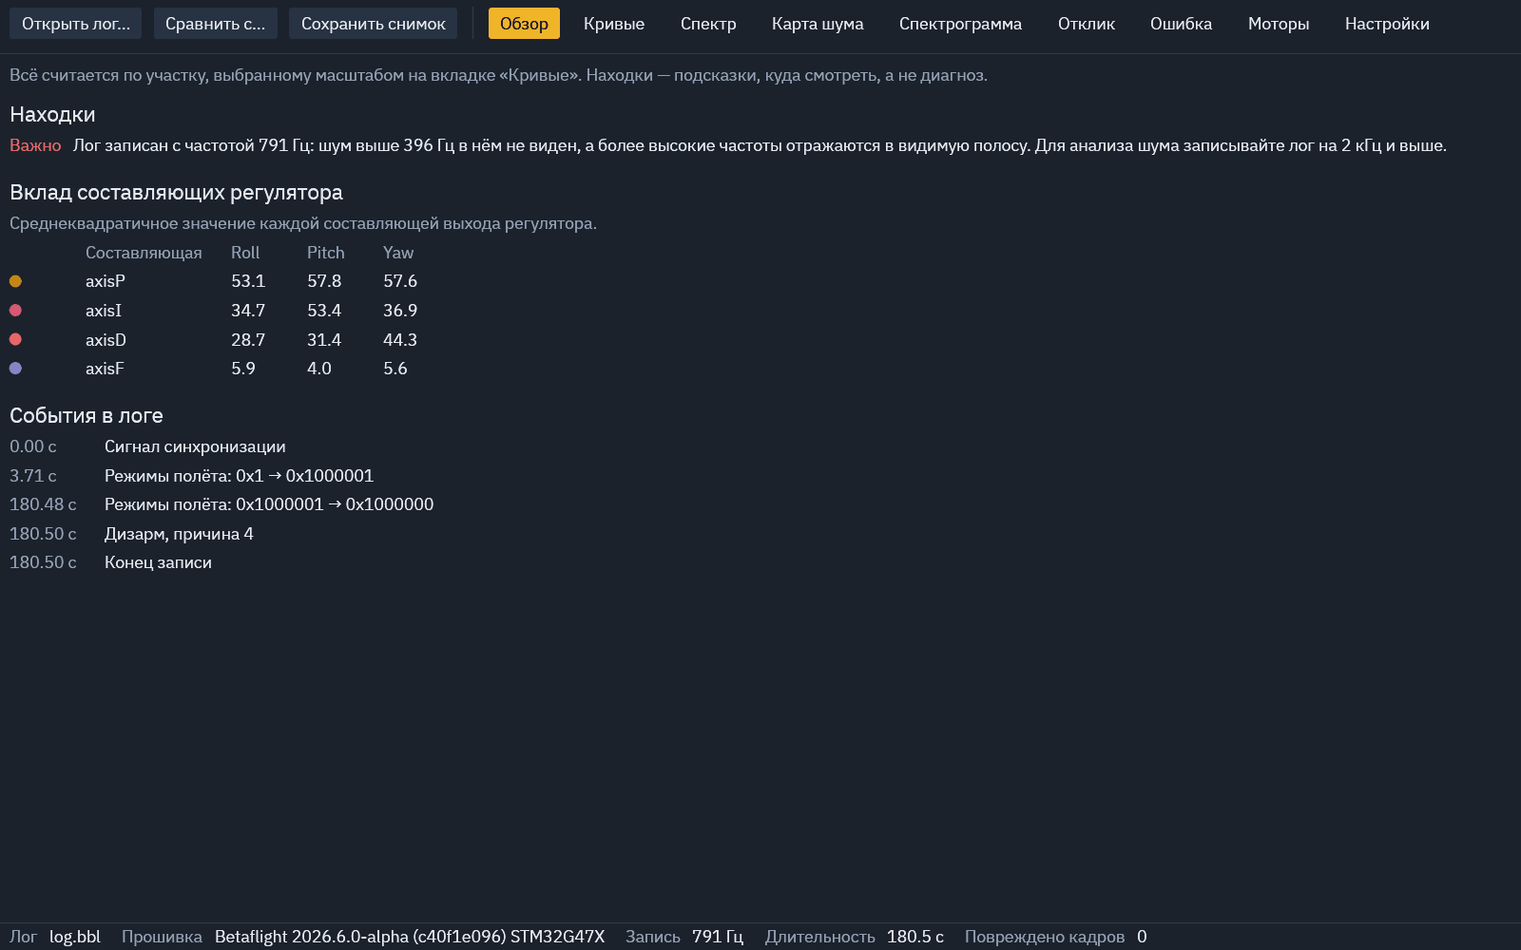
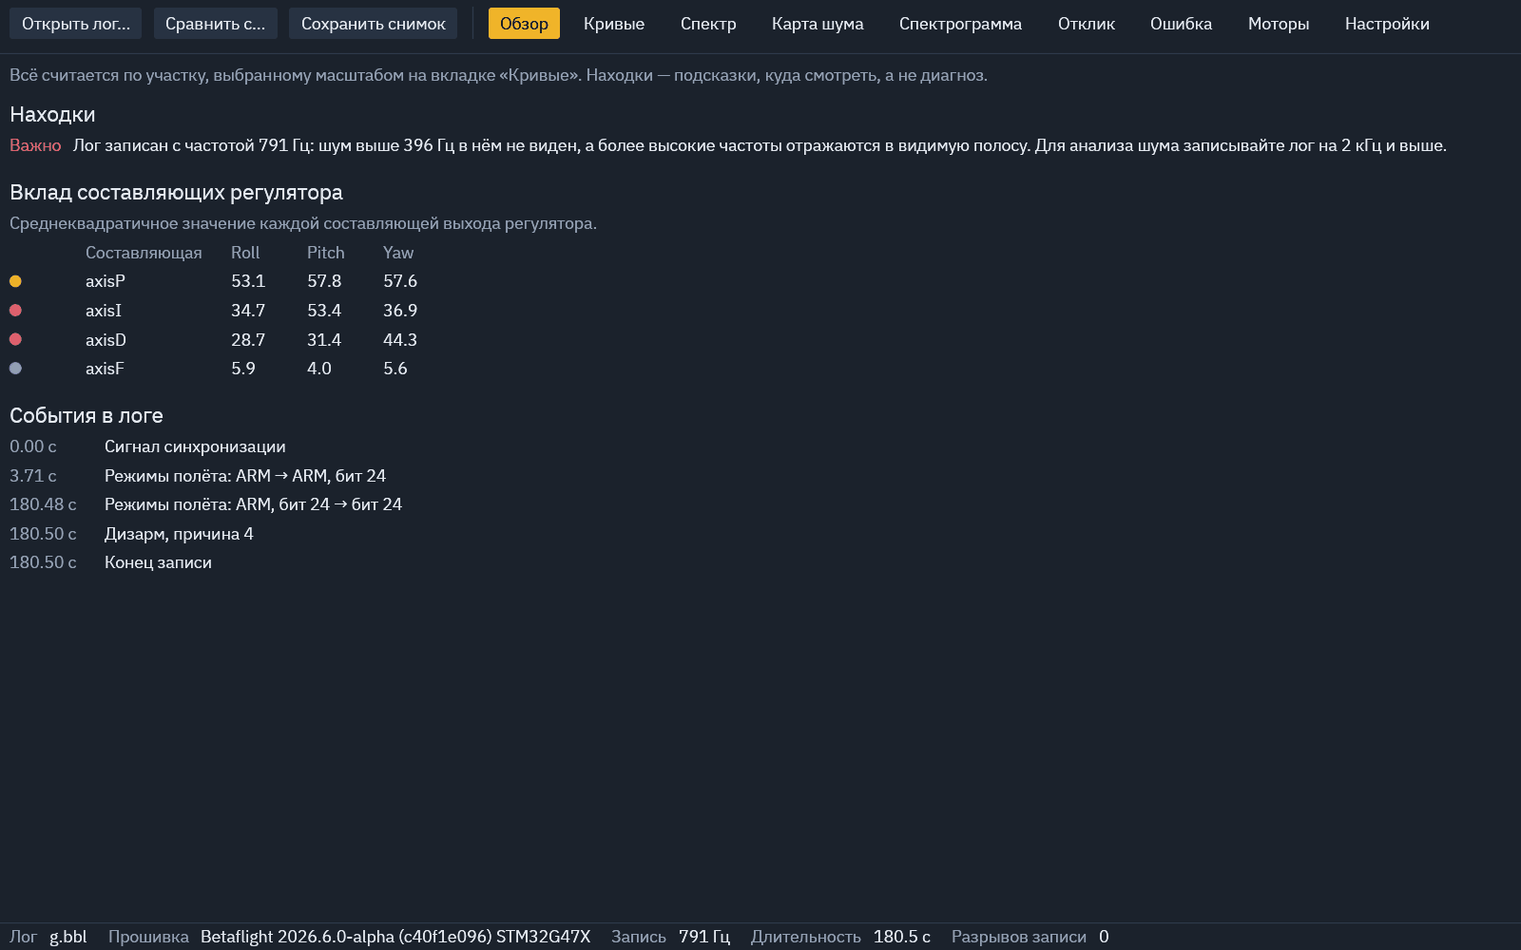
Сверка с blackbox_decode на всех прошивках, точность отклика, удобство
Разбор совпал с эталонным декодером на 31 записи (Betaflight 3.x–2025.x,
INAV, EmuFlight, Rotorflight). Исправлено занижение установившегося уровня
отклика на ступеньку; добавлен тест на колебательной системе с шумом.
Выгрузка в CSV, названия режимов полёта, участок анализа в строке состояния,
уровень под курсором на картах шума, README и скрипт сверки.

Changed region(s): [[0.0312, 0.961, 0.75, 1.0], [0.1562, 0.496, 0.2812, 0.558]]

diff --git a/src/main.rs b/src/main.rs
@@ -100,6 +100,8 @@ struct Loaded {
     other_fields: Vec<(usize, bool)>,
     /// Участок лога, видимый на кривых (номера кадров); по нему считается весь анализ, кроме карт.
     range: (usize, usize),
+    /// Просьба вернуть на кривых масштаб «весь лог».
+    reset_zoom: bool,
     spectra: ForRange<Spectra>,
     /// Задержка `gyroADC` относительно `gyroUnfilt` по осям, мс.
     delays: ForRange<[Option<f64>; 3]>,
@@ -179,6 +181,7 @@ impl Loaded {
         Self {
             sample_rate: log.sample_rate(),
             range: (0, log.time.len()),
+            reset_zoom: false,
             axis_fields,
             other_fields,
             spectra: None,
@@ -391,6 +394,9 @@ fn show_curves(ui: &mut egui::Ui, loaded: &mut Loaded) {
             plot = plot.x_axis_label("время, с");
         }
         plot.show(ui, |plot| {
+            if loaded.reset_zoom {
+                plot.set_auto_bounds([true, true]);
+            }
             if row == 0 {
                 // Пока масштаб автоматический, показываем весь лог: иначе границы
                 // подстраивались бы под уже обрезанные по ним же точки.
@@ -418,6 +424,7 @@ fn show_curves(ui: &mut egui::Ui, loaded: &mut Loaded) {
         });
     }
     loaded.range = range;
+    loaded.reset_zoom = false;
 }
 
 fn show_spectrum(ui: &mut egui::Ui, loaded: &mut Loaded, compare: Option<&mut Loaded>, view: &mut View) {
@@ -563,6 +570,20 @@ fn show_maps(ui: &mut egui::Ui, loaded: &mut Loaded, spectrogram: bool, view: &m
         if with_x_label {
             plot = plot.x_axis_label(x_label);
         }
+        // В углу — что под курсором: положение по осям и уровень в этой ячейке.
+        let grid = set.grids[a].as_ref();
+        let readout = move |point: &PlotPoint, _: &egui_plot::PlotBounds| {
+            let unit = ["%", "с", "Гц"][kind as usize];
+            let level = grid.and_then(|g| {
+                let (x, y) = (point.x / set.x_max * g.w as f64, point.y / f_max * (g.h - 1) as f64);
+                ((0.0..g.w as f64).contains(&x) && (0.0..g.h as f64).contains(&y)).then(|| g.db[x as usize * g.h + y as usize])
+            });
+            match level.filter(|db| !db.is_nan()) {
+                Some(db) => format!("{:.1} {unit}, {:.0} Гц: {db:.0} дБ", point.x, point.y),
+                None => format!("{:.1} {unit}, {:.0} Гц: нет данных", point.x, point.y),
+            }
+        };
+        plot = plot.coordinates_formatter(egui_plot::Corner::RightTop, egui_plot::CoordinatesFormatter::new(readout));
         plot.show(ui, |plot| {
             let center = PlotPoint::new(set.x_max / 2.0, f_max / 2.0);
             plot.image(PlotImage::new(AXES[a], texture.id(), center, [set.x_max as f32, f_max as f32]));
@@ -749,6 +770,7 @@ impl eframe::App for App {
             ui.add_space(4.0);
         });
 
+        let mut whole_log = false;
         egui::Panel::bottom("status").show(ui, |ui| {
             ui.horizontal(|ui| match (&self.error, self.logs.get(self.current)) {
                 (Some(e), _) => {
@@ -760,6 +782,11 @@ impl eframe::App for App {
                     fact(ui, "Запись", format!("{:.0} Гц", l.sample_rate));
                     fact(ui, "Длительность", format!("{:.1} с", l.log.time.last().unwrap_or(&0.0)));
                     fact(ui, "Разрывов записи", l.log.corrupt.to_string());
+                    if l.range != (0, l.log.time.len()) {
+                        let (lo, hi) = l.range;
+                        fact(ui, "Анализируется участок", format!("{:.2}–{:.2} с", l.log.time[lo], l.log.time[hi.max(lo + 1) - 1]));
+                        whole_log = ui.button("Весь лог").clicked();
+                    }
                     if let Some((name, _)) = &self.compare {
                         fact(ui, "Сравнение, штриховые линии", name.clone());
                     }
@@ -770,6 +797,10 @@ impl eframe::App for App {
                 (None, None) => {}
             });
         });
+
+        if let (true, Some(l)) = (whole_log, self.logs.get_mut(self.current)) {
+            (l.range, l.reset_zoom) = ((0, l.log.time.len()), true);
+        }
 
         let Some(loaded) = self.logs.get_mut(self.current) else {
             egui::CentralPanel::default().show(ui, |ui| {
@@ -816,11 +847,29 @@ impl eframe::App for App {
     }
 }
 
+/// Печатает запись в CSV: время от начала в микросекундах и все поля как в логе.
+fn write_csv(log: &bbl::Log) {
+    use std::io::Write;
+    let mut out = std::io::BufWriter::new(std::io::stdout().lock());
+    // Ошибка записи значит, что читатель закрыл поток (`| head`) — молча прекращаем.
+    let mut line = |text: String| writeln!(out, "{text}").is_ok();
+    if !line(format!("time_us,{}", log.names.join(","))) {
+        return;
+    }
+    for (row, time) in log.time.iter().enumerate() {
+        let values: Vec<String> = log.cols.iter().map(|c| c[row].to_string()).collect();
+        if !line(format!("{:.0},{}", time * 1e6, values.join(","))) {
+            return;
+        }
+    }
+}
+
 fn main() -> eframe::Result {
     let view = View { map_signal: "gyroADC", map_range_db: 50.0, by_rpm: false, harmonics: true, trial_on: false, trial_order: 1, trial_hz: 100, settings_filter: String::new(), only_different: false };
     let mut app = App { path: PathBuf::new(), logs: Vec::new(), compare: None, current: 0, error: None, notice: None, tab: Tab::Overview, view, snapshot_in: None };
     // Аргументы: лог; вкладка при запуске либо `report` (напечатать находки
-    // по каждой записи и выйти, без окна); лог для сравнения.
+    // по каждой записи и выйти, без окна) либо `csv` (выгрузить запись
+    // в CSV на стандартный вывод); лог для сравнения.
     // Вкладка с окончанием `+save` — сохранить её снимок рядом с логом и выйти.
     let mut args = std::env::args().skip(1);
     if let Some(path) = args.next() {
@@ -829,6 +878,15 @@ fn main() -> eframe::Result {
     let mut mode = args.next();
     if let Some(tab) = mode.as_deref().and_then(|m| m.strip_suffix("+save")) {
         (mode, app.snapshot_in) = (Some(tab.to_string()), Some(20));
+    }
+    if mode.as_deref() == Some("csv") {
+        // Третий аргумент — номер записи в файле, по умолчанию первая.
+        let index = args.next().and_then(|n| n.parse::<usize>().ok()).unwrap_or(1);
+        match app.logs.get(index.wrapping_sub(1)) {
+            Some(loaded) => write_csv(&loaded.log),
+            None => eprintln!("{}", app.error.unwrap_or(format!("В файле нет записи {index}"))),
+        }
+        return Ok(());
     }
     if mode.as_deref() == Some("report") {
         for (i, loaded) in app.logs.iter_mut().enumerate() {

diff --git a/tools/compare_with_blackbox_decode.py b/tools/compare_with_blackbox_decode.py
@@ -1,0 +1,70 @@
+"""Сверка разбора с blackbox_decode.
+
+Перед запуском декодировать логи эталоном: рядом с каждым логом должны лежать
+его `<имя>.NN.csv`. Запуск: `python3 tools/compare_with_blackbox_decode.py <папка с логами> [путь к fpv-log-analyzer]`.
+Сравниваются все поля с одинаковыми именами, кроме времени; строки сопоставляются по времени кадра.
+"""
+import sys, subprocess, glob, os, io, re
+import numpy as np, warnings
+warnings.simplefilter('ignore')
+B = sys.argv[2] if len(sys.argv) > 2 else 'target/release/fpv-log-analyzer'
+logs_dir = sys.argv[1]
+class T:
+    """Таблица: имена столбцов и числовой массив."""
+    def __init__(s, names, data): s.names, s.data = names, data
+    def __len__(s): return len(s.data)
+    def col(s, name): return s.data[:, s.names.index(name)]
+def table(f):
+    names = [c.strip() for c in f.readline().split(',')]
+    data = np.genfromtxt(f, delimiter=',', invalid_raise=False, usecols=range(len(names)), loose=True)
+    return T(names, np.atleast_2d(data) if data.size else np.zeros((0, len(names))))
+def mine(path, n):
+    out = subprocess.run([B, path, 'csv', str(n)], capture_output=True, text=True).stdout
+    if not out.strip(): return None
+    return table(io.StringIO(out))
+total_bad = 0
+for path in sorted(p for p in glob.glob(logs_dir + '/*') if re.search(r'\.(bbl|bfl|txt)$', p, re.I)):
+    stem = os.path.splitext(path)[0]
+    fw = ''
+    with open(path, 'rb') as f:
+        m = re.search(rb'H Firmware revision:([^\n]{0,28})', f.read(20000)); fw = m.group(1).decode(errors='replace') if m else '?'
+    refs = []
+    for c in sorted(glob.glob(glob.escape(stem) + '.[0-9][0-9].csv')):
+        try:
+            with open(c) as f: r = table(f)
+        except Exception as e: continue
+        if len(r) >= 3: refs.append((os.path.basename(c)[-6:-4], r))
+    mines = []
+    n = 1
+    while (m := mine(path, n)) is not None: mines.append(m); n += 1
+    print(f'== {os.path.basename(path)} [{fw}] эталон: {len(refs)} записей с данными, у нас: {len(mines)}')
+    used = set()
+    for tag, r in refs:
+        tcol = next(c for c in r.names if c.startswith('time'))
+        rt = r.col(tcol)
+        best = None
+        for k, m in enumerate(mines):
+            if k in used: continue
+            mt = m.col('time_us')
+            # смещение: абсолютное время эталона минус наше относительное; подбираем по первым кадрам
+            # эталон иногда пропускает начало записи (или мы) — пробуем оба варианта
+            cands = {rt[j] - mt[0]: 1 for j in range(min(600, len(rt)))}
+            cands.update({rt[0] - mt[i]: 1 for i in range(min(600, len(mt)))})
+            for off, _ in cands.items():
+                hit = np.isin(mt[:1500] + off, rt[:1500]).sum()
+                if best is None or hit > best[0]: best = (hit, k, off)
+        if best is None or best[0] < 3:
+            print(f'   запись {tag}: {len(r)} кадров — у нас пары нет'); total_bad += 1; continue
+        _, k, off = best; used.add(k); m = mines[k]
+        mt = m.col('time_us') + off
+        common, ri, mi = np.intersect1d(rt, mt, return_indices=True)
+        names = [n for n in r.names if n in m.names and n != 'time']
+        bad = {}
+        for nme in names:
+            d = int((np.abs(r.col(nme)[ri] - m.col(nme)[mi]) > 0.5).sum())
+            if d: bad[nme] = d
+        it = bad.pop('loopIteration', 0)
+        worst = ', '.join(f'{k}:{v}' for k, v in sorted(bad.items(), key=lambda kv: -kv[1])[:4])
+        if bad: total_bad += 1
+        print(f'   запись {tag}: эталон {len(r)}, у нас {len(m)}, общих {len(common)}, полей {len(names)}, расхождений в полях: {len(bad)} {worst}' + (f' | loopIteration расходится в {it}' if it else ''))
+print('ИТОГО записей с расхождениями или без пары:', total_bad)

diff --git a/src/dsp.rs b/src/dsp.rs
@@ -212,7 +212,14 @@ pub fn step_response(setpoint: &[f32], gyro: &[f32], fs: f64) -> Option<StepResp
         }
     }
     a[bins - 1].im = 0.0; // частота Найквиста у вещественного сигнала вещественна
-    a[0].im = 0.0;
+    // Нулевая частота задаёт установившийся уровень отклика, а по окну в 2 с она
+    // оценивается хуже всего и стягивалась бы к нулю, занижая этот уровень.
+    // Берётся усиление соседних частот (0.5–1.5 Гц): там оно то же, а оценка надёжна.
+    let low = &weighted[1..4.min(bins)];
+    let low_weight: f32 = low.iter().map(|w| w.1).sum();
+    if low_weight > 0.0 {
+        a[0] = realfft::num_complex::Complex::new((low.iter().map(|w| w.0).sum::<realfft::num_complex::Complex<f32>>() / low_weight).norm(), 0.0);
+    }
     ifft.process(&mut a, &mut buf).unwrap();
     let mut acc = 0.0;
     let points = buf[..len]
@@ -349,6 +356,39 @@ mod tests {
         let near = r.bode.iter().min_by(|a, b| (a[0] - 8.0).abs().total_cmp(&(b[0] - 8.0).abs())).unwrap();
         assert!((near[1] + 3.0).abs() < 1.0 && (near[2] + 45.0).abs() < 8.0, "на {} Гц: {} дБ, {}°", near[0], near[1], near[2]);
         assert!((r.bandwidth_hz().unwrap() - 8.0).abs() < 1.5);
+    }
+
+    /// Колебательная система (ζ = 0.3, 20 Гц) с шумом гироскопа и «пилотным» заданием:
+    /// перерегулирование известно заранее — 37 %, пик на 26 мс.
+    #[test]
+    fn step_response_of_underdamped_system() {
+        let (zeta, wn, dt) = (0.3f64, std::f64::consts::TAU * 20.0, 1.0 / FS);
+        let (mut seed, mut target, mut stick) = (11u32, 0f64, 0f64);
+        let mut random = move || {
+            seed = seed.wrapping_mul(1664525).wrapping_add(1013904223);
+            (seed >> 8) as f64 / 8_388_608.0 - 1.0
+        };
+        let (mut y, mut v) = (0f64, 0f64);
+        let (mut setpoint, mut gyro) = (Vec::new(), Vec::new());
+        for i in 0..120_000 {
+            if i % 400 == 0 {
+                target = random() * 300.0;
+            }
+            stick += (target - stick) * 0.08; // стик двигается плавно, не мгновенной ступенькой
+            for _ in 0..10 {
+                // интегрирование с мелким шагом
+                let a = wn * wn * (stick - y) - 2.0 * zeta * wn * v;
+                v += a * dt / 10.0;
+                y += v * dt / 10.0;
+            }
+            setpoint.push(stick as f32);
+            gyro.push((y + random() * 8.0) as f32);
+        }
+        let r = step_response(&setpoint, &gyro, FS).unwrap();
+        let (peak_ms, peak) = r.points.iter().fold((0.0, 0.0), |best, p| if p[1] > best.1 { (p[0], p[1]) } else { best });
+        let settled = r.points.iter().filter(|p| p[0] > 300.0).map(|p| p[1]).sum::<f64>() / r.points.iter().filter(|p| p[0] > 300.0).count() as f64;
+        eprintln!("пик {peak:.3} на {peak_ms:.0} мс, установившееся {settled:.3}");
+        assert!((peak - 1.37).abs() < 0.05 && (peak_ms - 26.0).abs() < 4.0 && (settled - 1.0).abs() < 0.03, "пик {peak} на {peak_ms} мс, установившееся {settled}");
     }
 
     /// Шум без повторов — для проверки задержек и фильтров.

diff --git a/src/bbl.rs b/src/bbl.rs
@@ -328,7 +328,7 @@ fn parse_event(r: &mut Reader) -> Option<String> {
         15 => format!("Дизарм, причина {}", r.unsigned_vb()),
         30 => {
             let (now, before) = (r.unsigned_vb(), r.unsigned_vb());
-            format!("Режимы полёта: {before:#x} → {now:#x}")
+            format!("Режимы полёта: {} → {}", mode_names(before), mode_names(now))
         }
         255 => {
             const END: &[u8] = b"End of log\0";
@@ -342,6 +342,21 @@ fn parse_event(r: &mut Reader) -> Option<String> {
 }
 
 const END_OF_LOG: &str = "Конец записи";
+
+/// Включённые режимы полёта по битовой маске. Первые три бита одинаковы во всех
+/// версиях Betaflight; раскладка остальных зависит от версии, поэтому они без названий.
+fn mode_names(mask: u32) -> String {
+    let names: Vec<String> = (0..32)
+        .filter(|bit| mask >> bit & 1 != 0)
+        .map(|bit| match bit {
+            0 => "ARM".into(),
+            1 => "ANGLE".into(),
+            2 => "HORIZON".into(),
+            _ => format!("бит {bit}"),
+        })
+        .collect();
+    if names.is_empty() { "нет".into() } else { names.join(", ") }
+}
 
 fn parse_list<T: std::str::FromStr>(value: &str) -> Vec<T> {
     value.split(',').filter_map(|s| s.trim().parse().ok()).collect()

diff --git a/README.md b/README.md
@@ -1,0 +1,59 @@
+# FPV Log Analyzer
+
+Анализатор blackbox-логов FPV-дронов: помогает по графикам найти причину
+проблемы — шум, фильтры, отклик, моторы. Не автотюнер. Linux и Windows.
+
+Читает логи Betaflight (3.x, 4.x, 2025.x, 2026.x), INAV, EmuFlight и Rotorflight,
+в том числе с нестандартными полями: поля берутся по именам из заголовка лога.
+
+## Запуск
+
+```bash
+cargo run --release -- путь/к/логу.bbl
+```
+
+Лог можно также перетащить в окно или открыть кнопкой «Открыть лог…».
+
+## Вкладки
+
+| Вкладка | Что показывает |
+|---|---|
+| Обзор | Автоматические находки, вклад P/I/D/F по осям, события лога |
+| Кривые | Сигналы во времени по Roll / Pitch / Yaw; масштаб по времени задаёт участок для остального анализа |
+| Спектр | Шум до и после фильтров, частоты фильтров из лога, задержка фильтров, пробный фильтр |
+| Карта шума | Шум в зависимости от газа или оборотов моторов |
+| Спектрограмма | Шум во времени |
+| Отклик | Отклик на ступеньку, усиление и фаза контура |
+| Ошибка | Распределение ошибки слежения и её зависимость от скорости стиков |
+| Моторы | Загрузка, насыщение и спектр выходов моторов |
+| Настройки | Параметры из заголовка лога; при сравнении — отличия двух логов |
+
+«Сравнить с…» накладывает второй лог штриховыми линиями на спектр и отклик.
+«Сохранить снимок» пишет PNG текущей вкладки рядом с логом.
+
+## Без окна
+
+```bash
+fpv-log-analyzer лог.bbl report          # находки текстом
+fpv-log-analyzer лог.bbl csv [номер]     # запись в CSV на стандартный вывод
+fpv-log-analyzer лог.bbl step+save       # снимок вкладки в PNG и выход
+```
+
+Имена вкладок для командной строки: `overview`, `curves`, `spectrum`, `heatmap`,
+`spectrogram`, `step`, `error`, `motors`, `settings`. Третьим аргументом можно
+передать лог для сравнения.
+
+## Сборка под Windows
+
+```bash
+cargo build --release --target x86_64-pc-windows-gnu
+```
+
+## Проверка
+
+```bash
+cargo test --release
+python3 tools/compare_with_blackbox_decode.py папка_с_логами   # сверка разбора с blackbox_decode
+```
+
+Состояние, план и известные слабые места — в [docs/TRACKER.md](docs/TRACKER.md).
